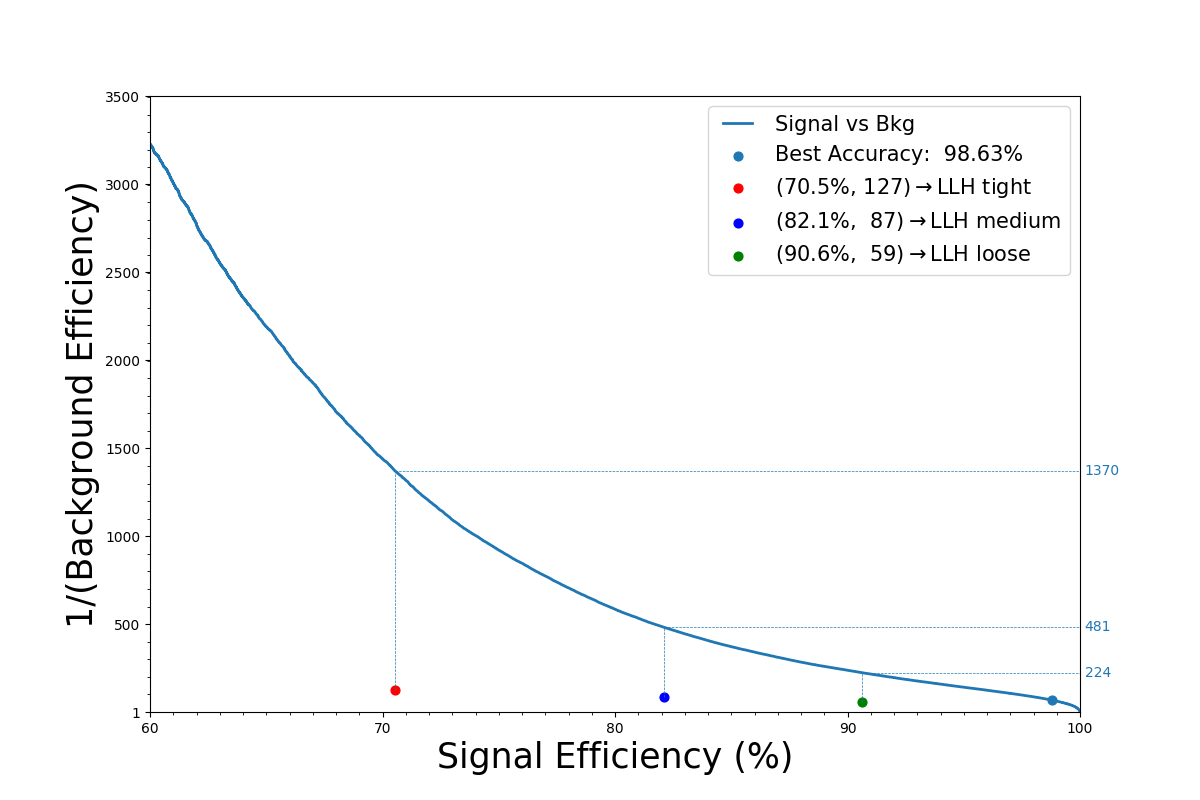
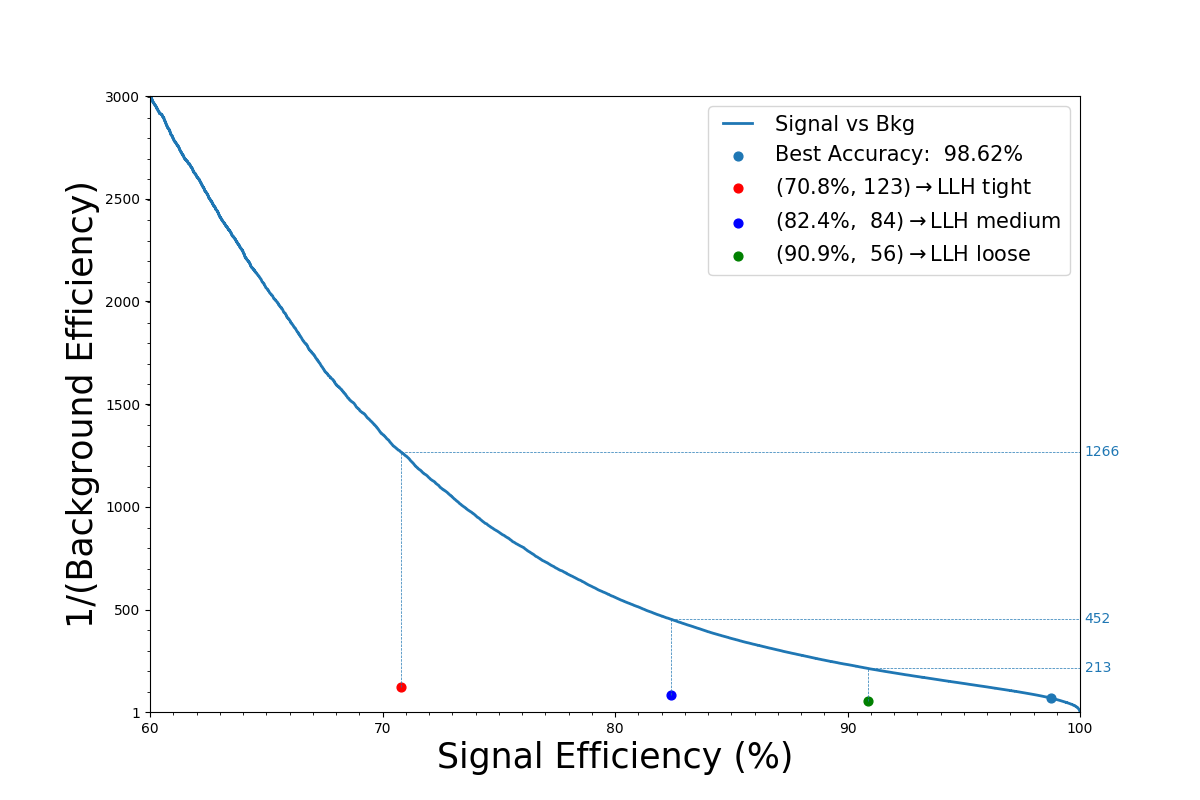
Updated performance results

diff --git a/plots_DG.py b/plots_DG.py
@@ -164,59 +164,41 @@ def plot_ROC_curves(sample, y_true, y_prob, ROC_type, output_dir):
                          +'%, '+str(format(1/LLH[1],'>3.0f'))+')'+r'$\rightarrow$'+LLH[3] )
         plt.legend(loc='upper right', fontsize=15, numpoints=3)
     if ROC_type == 3:
+        def make_plots(location):
+            plt.xlabel('Signal Probability as Threshold (%)', fontsize=25); plt.ylabel('(%)',fontsize=25)
+            val_1 = plt.plot(threshold[1:], tpr[1:],   color='tab:blue'  , label='Signal efficiency'   ,lw=2)
+            val_2 = plt.plot(threshold[1:], 1-fpr[1:], color='tab:orange', label='Background rejection',lw=2)
+            val_3 = plt.plot(threshold[1:], accuracy[1:],   color='black', label='Accuracy', zorder=10 ,lw=2)
+            for LLH in zip(LLH_tpr, LLH_fpr):
+                p1 = plt.scatter(threshold[np.argwhere(tpr>=LLH[0])[0]], LLH[0],
+                                 s=40, marker='o', c=val_1[0].get_color())
+                p2 = plt.scatter(threshold[np.argwhere(tpr>=LLH[0])[0]], 1-LLH[1],
+                                 s=40, marker='o', c=val_2[0].get_color())
+            l1 = plt.legend([p1, p2], ['LLH sig. eff.', 'LLH bkg. rej.'], loc='lower left', fontsize=13)
+            #std_accuracy = valid_accuracy(y_true, y_prob)
+            #plt.scatter( 0.5, std_accuracy, s=30, marker='D', c=val_3[0].get_color(),
+            #             label="{0:<10s} {1:>5.2f}%".format('Standard Accuracy:', std_accuracy), zorder=10 )
+            plt.scatter( best_threshold, max(accuracy), s=40, marker='o', c=val_3[0].get_color(),
+                         label='{0:<10s} {1:>5.2f}%'.format('Best Accuracy:',100*max(accuracy)), zorder=10 )
+            plt.legend(loc=location, fontsize=15, numpoints=3); plt.gca().add_artist(l1)
         best_threshold = threshold[np.argmax(accuracy)]
         plt.figure(figsize=(12,16))
         plt.subplot(2, 1, 1); pylab.grid(True); axes = plt.gca()
         plt.xlim([0, 1]);   plt.xticks(np.arange(0,1.01,0.1)   , np.arange(0,101,10))
         plt.ylim([0.6, 1]); plt.yticks(np.arange(0.6,1.01,0.05), np.arange(60,101,5))
-        plt.xlabel('Signal Probability as Threshold (%)', fontsize=25)
-        plt.ylabel('(%)',fontsize=25)
-        val_1 = plt.plot(threshold[1:], tpr[1:]     , color='tab:blue'  , label='Signal efficiency'   , lw=2)
-        val_2 = plt.plot(threshold[1:], 1-fpr[1:]   , color='tab:orange', label='Background rejection', lw=2)
-        val_3 = plt.plot(threshold[1:], accuracy[1:], color='black'     , label='Accuracy', zorder=10 , lw=2)
-        for LLH in zip(LLH_tpr, LLH_fpr):
-            p1 = plt.scatter(threshold[np.argwhere(tpr>=LLH[0])[0]], LLH[0],
-                             s=40, marker='o', c=val_1[0].get_color())
-            p2 = plt.scatter(threshold[np.argwhere(tpr>=LLH[0])[0]], 1-LLH[1],
-                             s=40, marker='o', c=val_2[0].get_color())
-        l1 = plt.legend([p1, p2], ["LLH sig. efficiencies", "LLH bkg. rejections"],
-                        loc='lower left', fontsize=13)
-        #std_accuracy = 100*valid_accuracy(y_true, y_prob)
-        #plt.scatter( 0.5, std_accuracy, s=30, marker='D', c=val_3[0].get_color(),
-        #             label="{0:<10s} {1:>5.2f}%".format('Standard Accuracy:', std_accuracy), zorder=10 )
-        plt.scatter( best_threshold, max(accuracy), s=40, marker='o', c=val_3[0].get_color(),
-                     label="{0:<10s} {1:>5.2f}%".format('Best Accuracy:',100*max(accuracy)), zorder=10 )
-        plt.legend(loc='lower center', fontsize=15, numpoints=3)
-        plt.gca().add_artist(l1)
+        make_plots('lower center')
         plt.subplot(2, 1, 2); pylab.grid(True); axes = plt.gca()
         x_min=-2; x_max=3; y_min=0.1; y_max=1-1e-4;
         pylab.ylim(y_min, y_max); pylab.xlim(10**x_min, 1-10**(-x_max))
         pos  =                       [  10**float(n)  for n in np.arange(x_min,0)           ]
-        pos += [ 0.5]              + [1-10**float(n)  for n in np.arange(-1,-x_max-1,-1)    ]
+        pos += [0.5]               + [1-10**float(n)  for n in np.arange(-1,-x_max-1,-1)    ]
         lab  =                       [ '0.'+n*'0'+'1' for n in np.arange(abs(x_min)-3,-1,-1)]
         lab += [1, 10, 50, 90, 99] + ['99.'+n*'9'     for n in np.arange(1,x_max-1)         ]
-        plt.xscale('logit')
-        plt.xticks(pos, lab)
-        plt.yscale('logit')
-        plt.yticks([ 0.1, 0.5, 0.9, 0.99, 0.999, 0.9999], [10, 50, 90, 99, 99.9, 99.99])
+        plt.xscale('logit'); plt.xticks(pos, lab)
+        plt.yscale('logit'); plt.yticks([0.1, 0.5, 0.9, 0.99, 0.999, 0.9999], [10, 50, 90, 99, 99.9, 99.99])
         axes.xaxis.set_minor_formatter(plt.NullFormatter())
         axes.yaxis.set_minor_formatter(plt.NullFormatter())
-        plt.xlabel('Signal Probability as Threshold (%)', fontsize=25)
-        plt.ylabel('(%)',fontsize=25)
-        val_1 = plt.plot(threshold[1:], tpr[1:]     , color='tab:blue'  , label='Signal efficiency'   , lw=2)
-        val_2 = plt.plot(threshold[1:], 1-fpr[1:]   , color='tab:orange', label='Background rejection', lw=2)
-        val_3 = plt.plot(threshold[1:], accuracy[1:], color='black'     , label='Accuracy', zorder=10 , lw=2)
-        for LLH in zip(LLH_tpr, LLH_fpr):
-            p1 = plt.scatter(threshold[np.argwhere(tpr>=LLH[0])[0]], LLH[0],
-                             s=40, marker='o', c=val_1[0].get_color())
-            p2 = plt.scatter(threshold[np.argwhere(tpr>=LLH[0])[0]], 1-LLH[1],
-                             s=40, marker='o', c=val_2[0].get_color())
-        l1 = plt.legend([p1, p2], ["LLH sig. efficiencies", "LLH bkg. rejections"],
-                        loc='lower left', fontsize=13)
-        plt.scatter( best_threshold, max(accuracy), s=40, marker='o', c=val_3[0].get_color(),
-                     label="{0:<10s} {1:>5.2f}%".format('Best Accuracy:',100*max(accuracy)), zorder=10 )
-        plt.legend(loc='upper center', fontsize=15)
-        plt.gca().add_artist(l1)
+        make_plots('upper center')
     if ROC_type == 4:
         best_tpr = tpr[np.argmax(accuracy)]
         plt.xlim([60, 100.0])
@@ -247,7 +229,7 @@ def combine_ROC_curves(output_dir, CNN_dict):
         print('LOADING VALIDATION RESULTS FROM', result_file)
         return_dict[idx] = fpr, tpr, threshold, LLH_fpr, LLH_tpr
     manager   = mp.Manager()   ; return_dict = manager.dict()
-    idx_list  = [1,2,3,4,5,6] #np.arange(1,11)
+    idx_list  = [1,1.7,2,3,4,5,6,7,8,9,10]
     var_name    = '$r_{sig}:r_{bkg}$'
     processes = [mp.Process(target=mp_roc, args=(idx, output_dir, return_dict)) for idx in idx_list]
     for job in processes: job.start()
@@ -257,18 +239,18 @@ def combine_ROC_curves(output_dir, CNN_dict):
     for LLH_tpr in [0.7, 0.8, 0.9]:
         bkg_rej  = [1/return_dict[idx][0][np.argwhere(return_dict[idx][1] >= LLH_tpr)[0]][0]
                     for idx in idx_list]
-        #bkg_rej /= np.mean(bkg_rej)
+        bkg_rej /= np.mean(bkg_rej)
         #n_weights = [NN_weights((5,13), CNN_dict, [200, 200], 2) for idx in idx_list]
         #bkg_rej   = [1e5*bkg_rej[n]/n_weights[n] for n in np.arange(len(idx_list))]
         plt.scatter(idx_list, bkg_rej, s=40, marker='o')
         idx_array    = np.linspace(min(idx_list), max(idx_list), 1000)
-        spline       = make_interp_spline(idx_list, bkg_rej, k=2)
+        spline       = make_interp_spline(idx_list, bkg_rej, k=3)
         plt.plot(idx_array, spline(idx_array), label=format(100*LLH_tpr,'.0f')+'% sig. eff.')
     plt.xlim([min(idx_list)-1, max(idx_list)+1])
     axes.xaxis.set_major_locator(MultipleLocator(1))
     #plt.ylim([0, 1500])
     #axes.yaxis.set_major_locator(MultipleLocator(100))
-    plt.ylim([0.95, 1.1])
+    plt.ylim([0.9, 1.1])
     axes.yaxis.set_major_locator(MultipleLocator(0.05))
     #plt.xlabel('Maximum Number of Tracks',fontsize=25)
     plt.xlabel('Ratio bkg/sig (for training)',fontsize=25)

diff --git a/classifier.py b/classifier.py
@@ -24,7 +24,6 @@ parser.add_argument( '--verbose'     , default =    1,  type = int   )
 parser.add_argument( '--sbatch_var'  , default =    1,  type = int   )
 parser.add_argument( '--l2'          , default = 1e-8,  type = float )
 parser.add_argument( '--dropout'     , default = 0.05,  type = float )
-#parser.add_argument( '--CNN_maps'    , default = [200, 200], type = int, nargs='+')
 parser.add_argument( '--FCN_neurons' , default = [200, 200], type = int, nargs='+')
 parser.add_argument( '--weight_type' , default = None                )
 parser.add_argument( '--train_cuts'  , default = ''                  )
@@ -57,9 +56,12 @@ CNN = {(56,11):{'maps':[200,200], 'kernels':[ (3,3) , (3,3) ], 'pools':[ (2,2) ,
 # OBTAINING PERFORMANCE FROM EXISTING VALIDATION RESULTS
 if args.results_in != '':
     if os.path.isfile(args.output_dir+'/'+args.results_in):
-        print('\nLOADING VALIDATION RESULTS FROM', args.output_dir+'/'+args.results_in, '\n')
+        print('\nLOADING VALIDATION RESULTS FROM', args.output_dir+'/'+args.results_in, end='')
         sample, labels, probs = pickle.load(open(args.output_dir+'/'+args.results_in, 'rb'))
-        valid_results(sample, labels, probs, labels, None, args.output_dir, args.plotting)
+        n_e = min(len(labels),int(args.n_valid))
+        print('\nGENERATING PERFORMANCE RESULTS FOR', n_e, 'ELECTRONS ...\n')
+        sample, labels, probs = {key:sample[key][:n_e] for key in sample}, labels[:n_e], probs[:n_e]
+        valid_results(sample, labels, probs, [], None, args.output_dir, args.plotting)
     sys.exit()
 
 
@@ -115,9 +117,8 @@ sample_size  = len(h5py.File(data_file, 'r')['eventNumber'])
 args.n_train = [0, min(sample_size, args.n_train)] if args.cross_valid == 'OFF' else [0,0]
 args.n_valid = [args.n_train[-1], min(args.n_train[-1]+args.n_valid, sample_size )]
 if args.cross_valid == 'OFF' and args.n_folds > 1: args.n_valid = args.n_train
-#args.valid_cuts += ' & (sample["p_et_calo"] >= 20)'
+#args.valid_cuts += ' & (sample["p_et_calo"] >= 20)' #' & (abs(sample["p_eta"] > 0.6)'
 #args.valid_cuts += ' & (sample["p_et_calo"] > 4.5) & (sample["p_et_calo"] < 20)'
-#args.valid_cuts += ' & (abs(sample["p_eta"] > 0.6)'
 
 
 # ARGUMENTS AND VARIABLES TABLES
@@ -151,7 +152,7 @@ if args.cross_valid == 'OFF' and args.model_in != '':
 
 def bkg_sample_weights(sample):
     from utils import make_labels; labels = make_labels(sample, 6)
-    weights = class_weights(labels, 2.5)
+    weights = class_weights(labels, bkg_to_sig=2)
     return np.array([weights[n] for n in np.arange(6)])[labels]
 
 
@@ -179,8 +180,8 @@ if args.cross_valid == 'OFF' and args.n_epochs >= 1:
     sample_weight = sample_weights(train_sample,train_labels,args.n_classes,args.weight_type,args.output_dir)
     training = model.fit( train_sample, train_labels, validation_data=(valid_sample,valid_labels),
                           callbacks=[check_point,early_stop], epochs=args.n_epochs, verbose=args.verbose,
-                          class_weight=class_weights(train_labels), sample_weight=sample_weight,
-                          #sample_weight = bkg_sample_weights(train_sample),
+                          #class_weight=class_weights(train_labels, 2), sample_weight=sample_weight,
+                          sample_weight = bkg_sample_weights(train_sample),
                           batch_size=max(1,n_gpus)*int(args.batch_size) )
     model.load_weights(model_out)
 else: train_labels = []; training = None
@@ -190,11 +191,11 @@ else: train_labels = []; training = None
 if args.cross_valid == 'ON':
     valid_probs = cross_validation(valid_sample, valid_labels, scalars, model, args.output_dir, args.n_folds)
     print('MERGING ALL FOLDS AND PREDICTING CLASSES ...')
-if args.cross_valid == 'OFF':
+else:
     print('\nValidation sample', args.n_valid, 'class predictions:')
     valid_probs = model.predict(valid_sample, batch_size=20000, verbose=args.verbose); print()
 valid_results(valid_sample, valid_labels, valid_probs, train_labels, training, args.output_dir, args.plotting)
 if args.results_out != '':
     print('Saving validation results to:', args.output_dir+'/'+args.results_out, '\n')
-    valid_sample = {key:valid_sample[key] for key in scalars+other_var}
+    valid_sample = {key:valid_sample[key] for key in other_var+scalars}
     pickle.dump((valid_sample, valid_labels, valid_probs), open(args.output_dir+'/'+args.results_out,'wb'))

diff --git a/utils.py b/utils.py
@@ -356,6 +356,13 @@ def compo_matrix(valid_labels, train_labels=[], valid_probs=[]):
         print('VALIDATION SAMPLE ACCURACY:', format(valid_accuracy,'.2f'),'%\n')
 
 
+def bkg_rejection(labels, probs, sig_eff=[90, 80, 70]):
+    fpr, tpr, _ = metrics.roc_curve(labels, probs[:,0], pos_label=0)
+    for val in sig_eff:
+        print('BACKGROUND REJECTION AT', val, '% EFFICIENCY', end=': ', flush=True)
+        print(format(1/fpr[np.argwhere(tpr>=val/100)[0]][0],'>4.0f'), '\n' if val==sig_eff[-1] else '')
+
+
 def class_weights(labels, bkg_to_sig=None):
     n_e = len(labels); n_classes = max(labels) + 1
     if bkg_to_sig == None and n_classes == 2: return None
@@ -428,20 +435,11 @@ def make_plots(sample, labels, probs, output_dir, bkg, separation=False, dump=Fa
     for job in processes: job.join()
 
 
-def bkg_rejection(labels, probs, sig_eff=[90, 80, 70]):
-    fpr, tpr, _ = metrics.roc_curve(labels, probs[:,0], pos_label=0)
-    for val in sig_eff:
-        print('BACKGROUND REJECTION AT', val, '% EFFICIENCY', end=': ', flush=True)
-        print(format(1/fpr[np.argwhere(tpr>=val/100)[0]][0],'>4.0f'), '\n' if val==sig_eff[-1] else '')
-
-
 def valid_results(valid_sample, valid_labels, valid_probs, train_labels, training, output_dir, plotting):
-    compo_matrix(valid_labels, train_labels, valid_probs)
-    #bkg_rejection(valid_labels, valid_probs)
+    compo_matrix(valid_labels, train_labels, valid_probs); #bkg_rejection(valid_labels, valid_probs)
     if max(valid_labels) > 1:
         valid_sample, valid_labels, valid_probs = binarization(valid_sample, valid_labels, valid_probs)
-        compo_matrix(valid_labels, [], valid_probs)
-        bkg_rejection(valid_labels, valid_probs)
+        compo_matrix(valid_labels, [], valid_probs); bkg_rejection(valid_labels, valid_probs)
     if plotting == 'ON':
         bkg_list  = ['bkg'] #+ [1, 2, 3, 4, 5]
         arguments = [(valid_sample, valid_labels, valid_probs, output_dir, bkg) for bkg in bkg_list]
